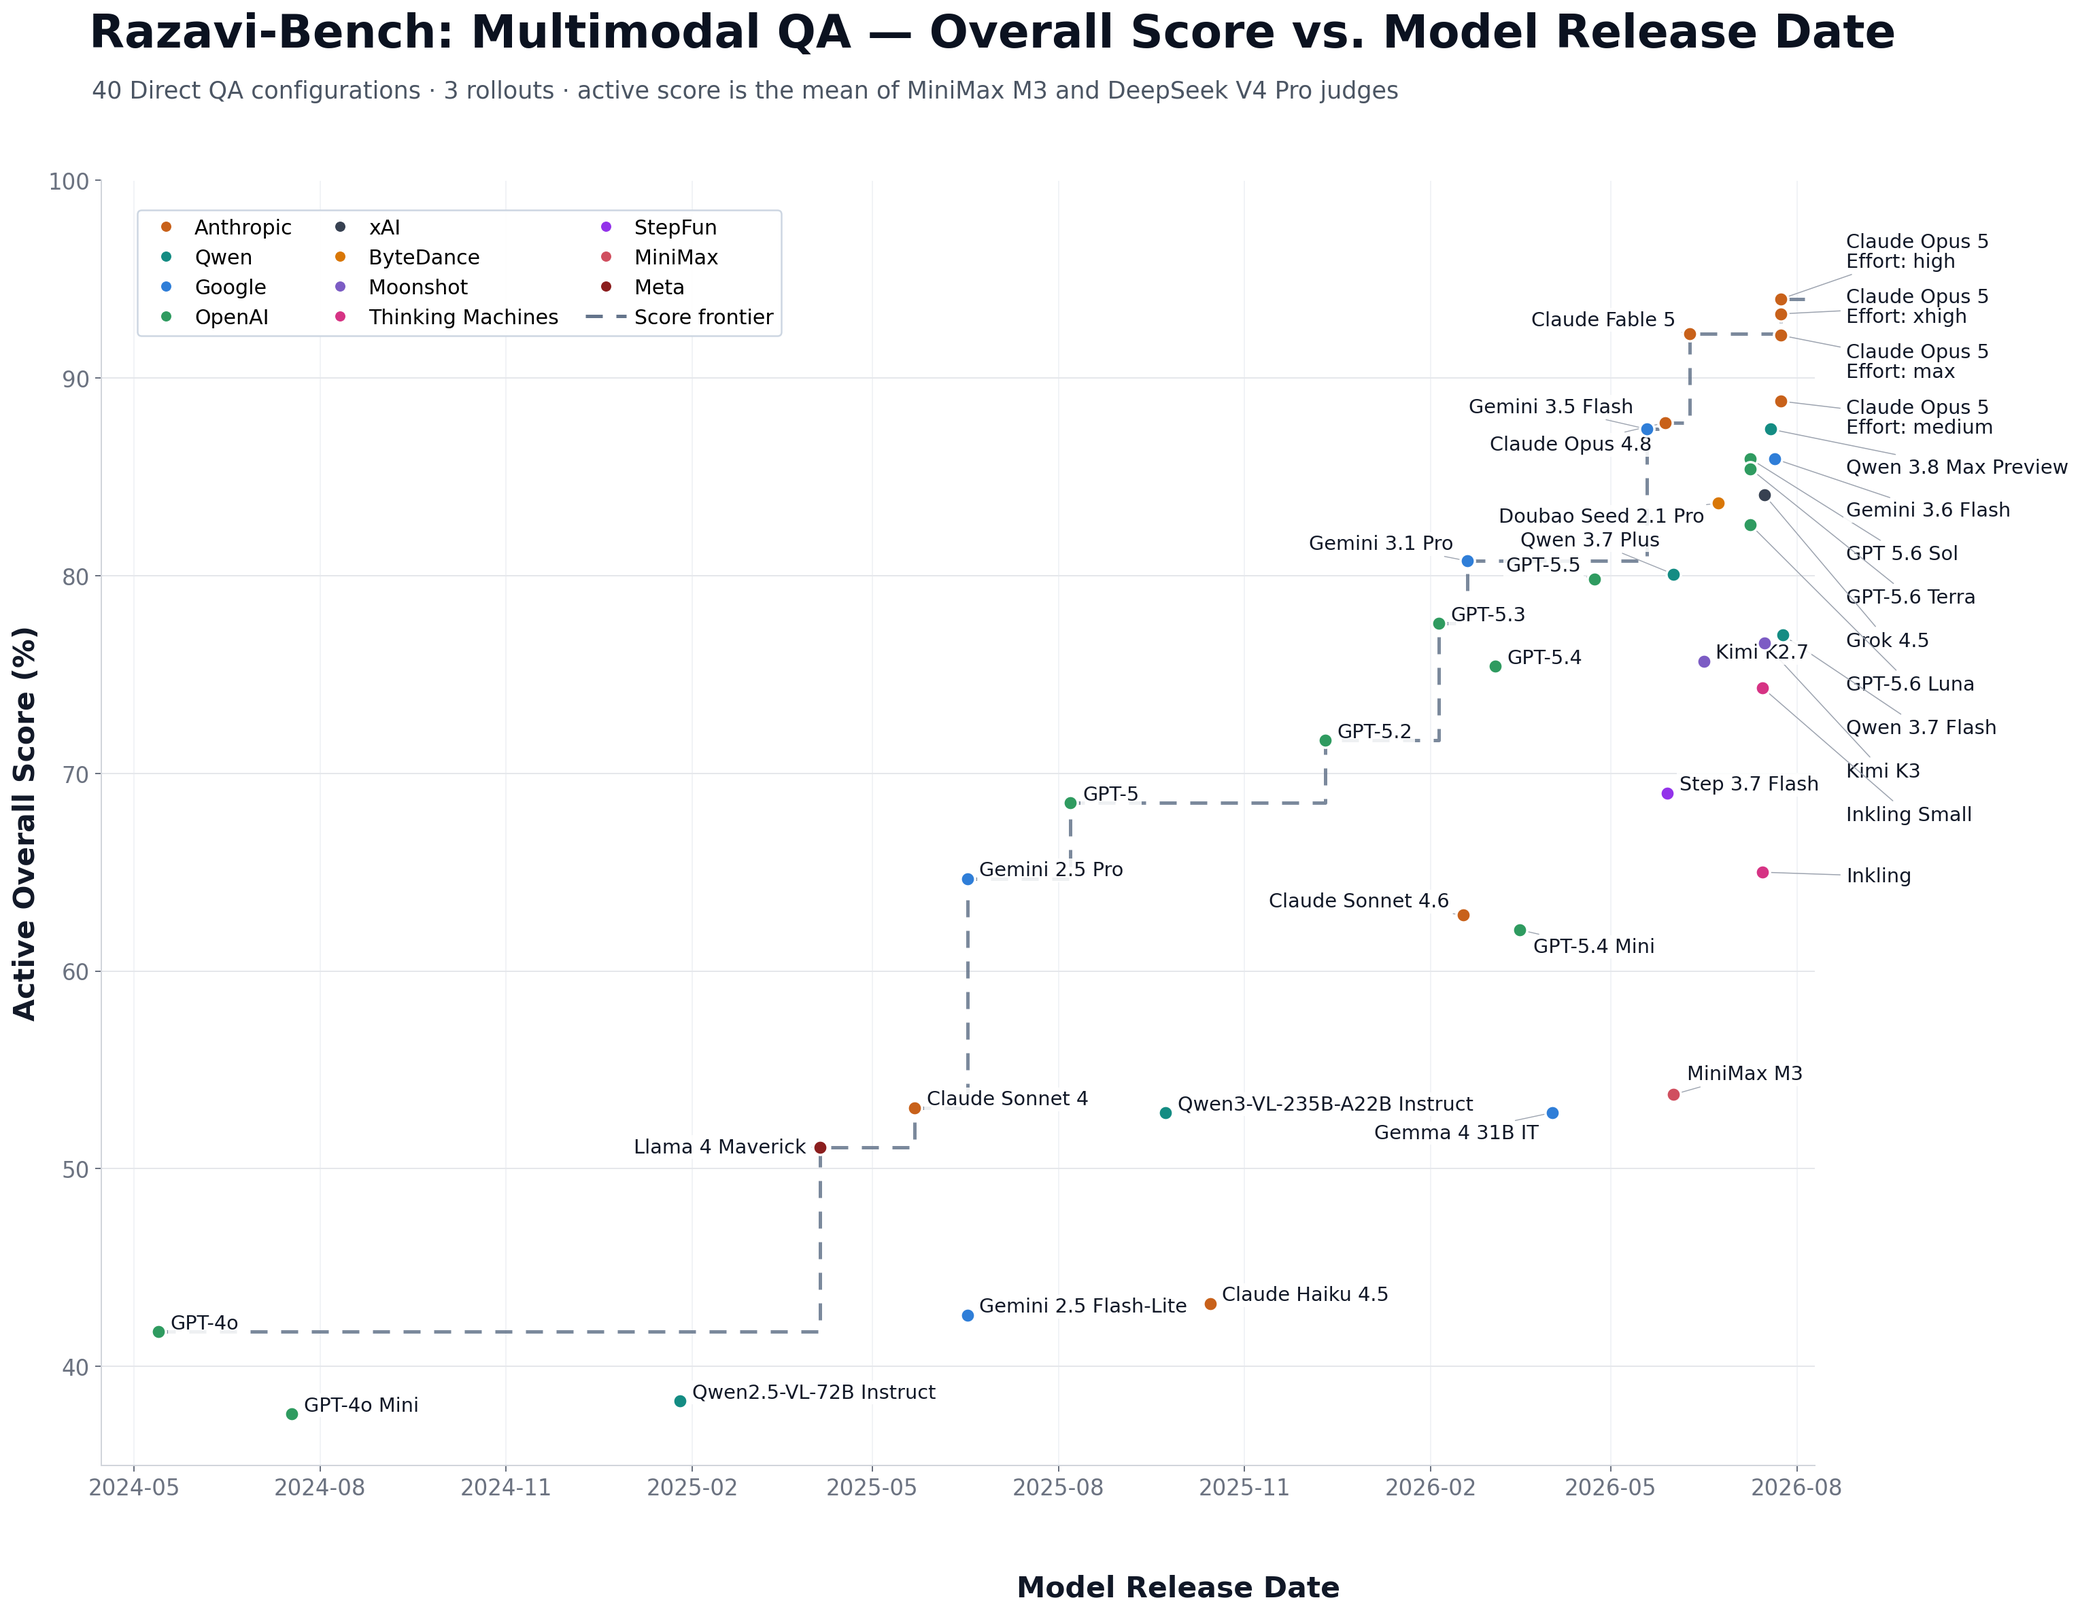
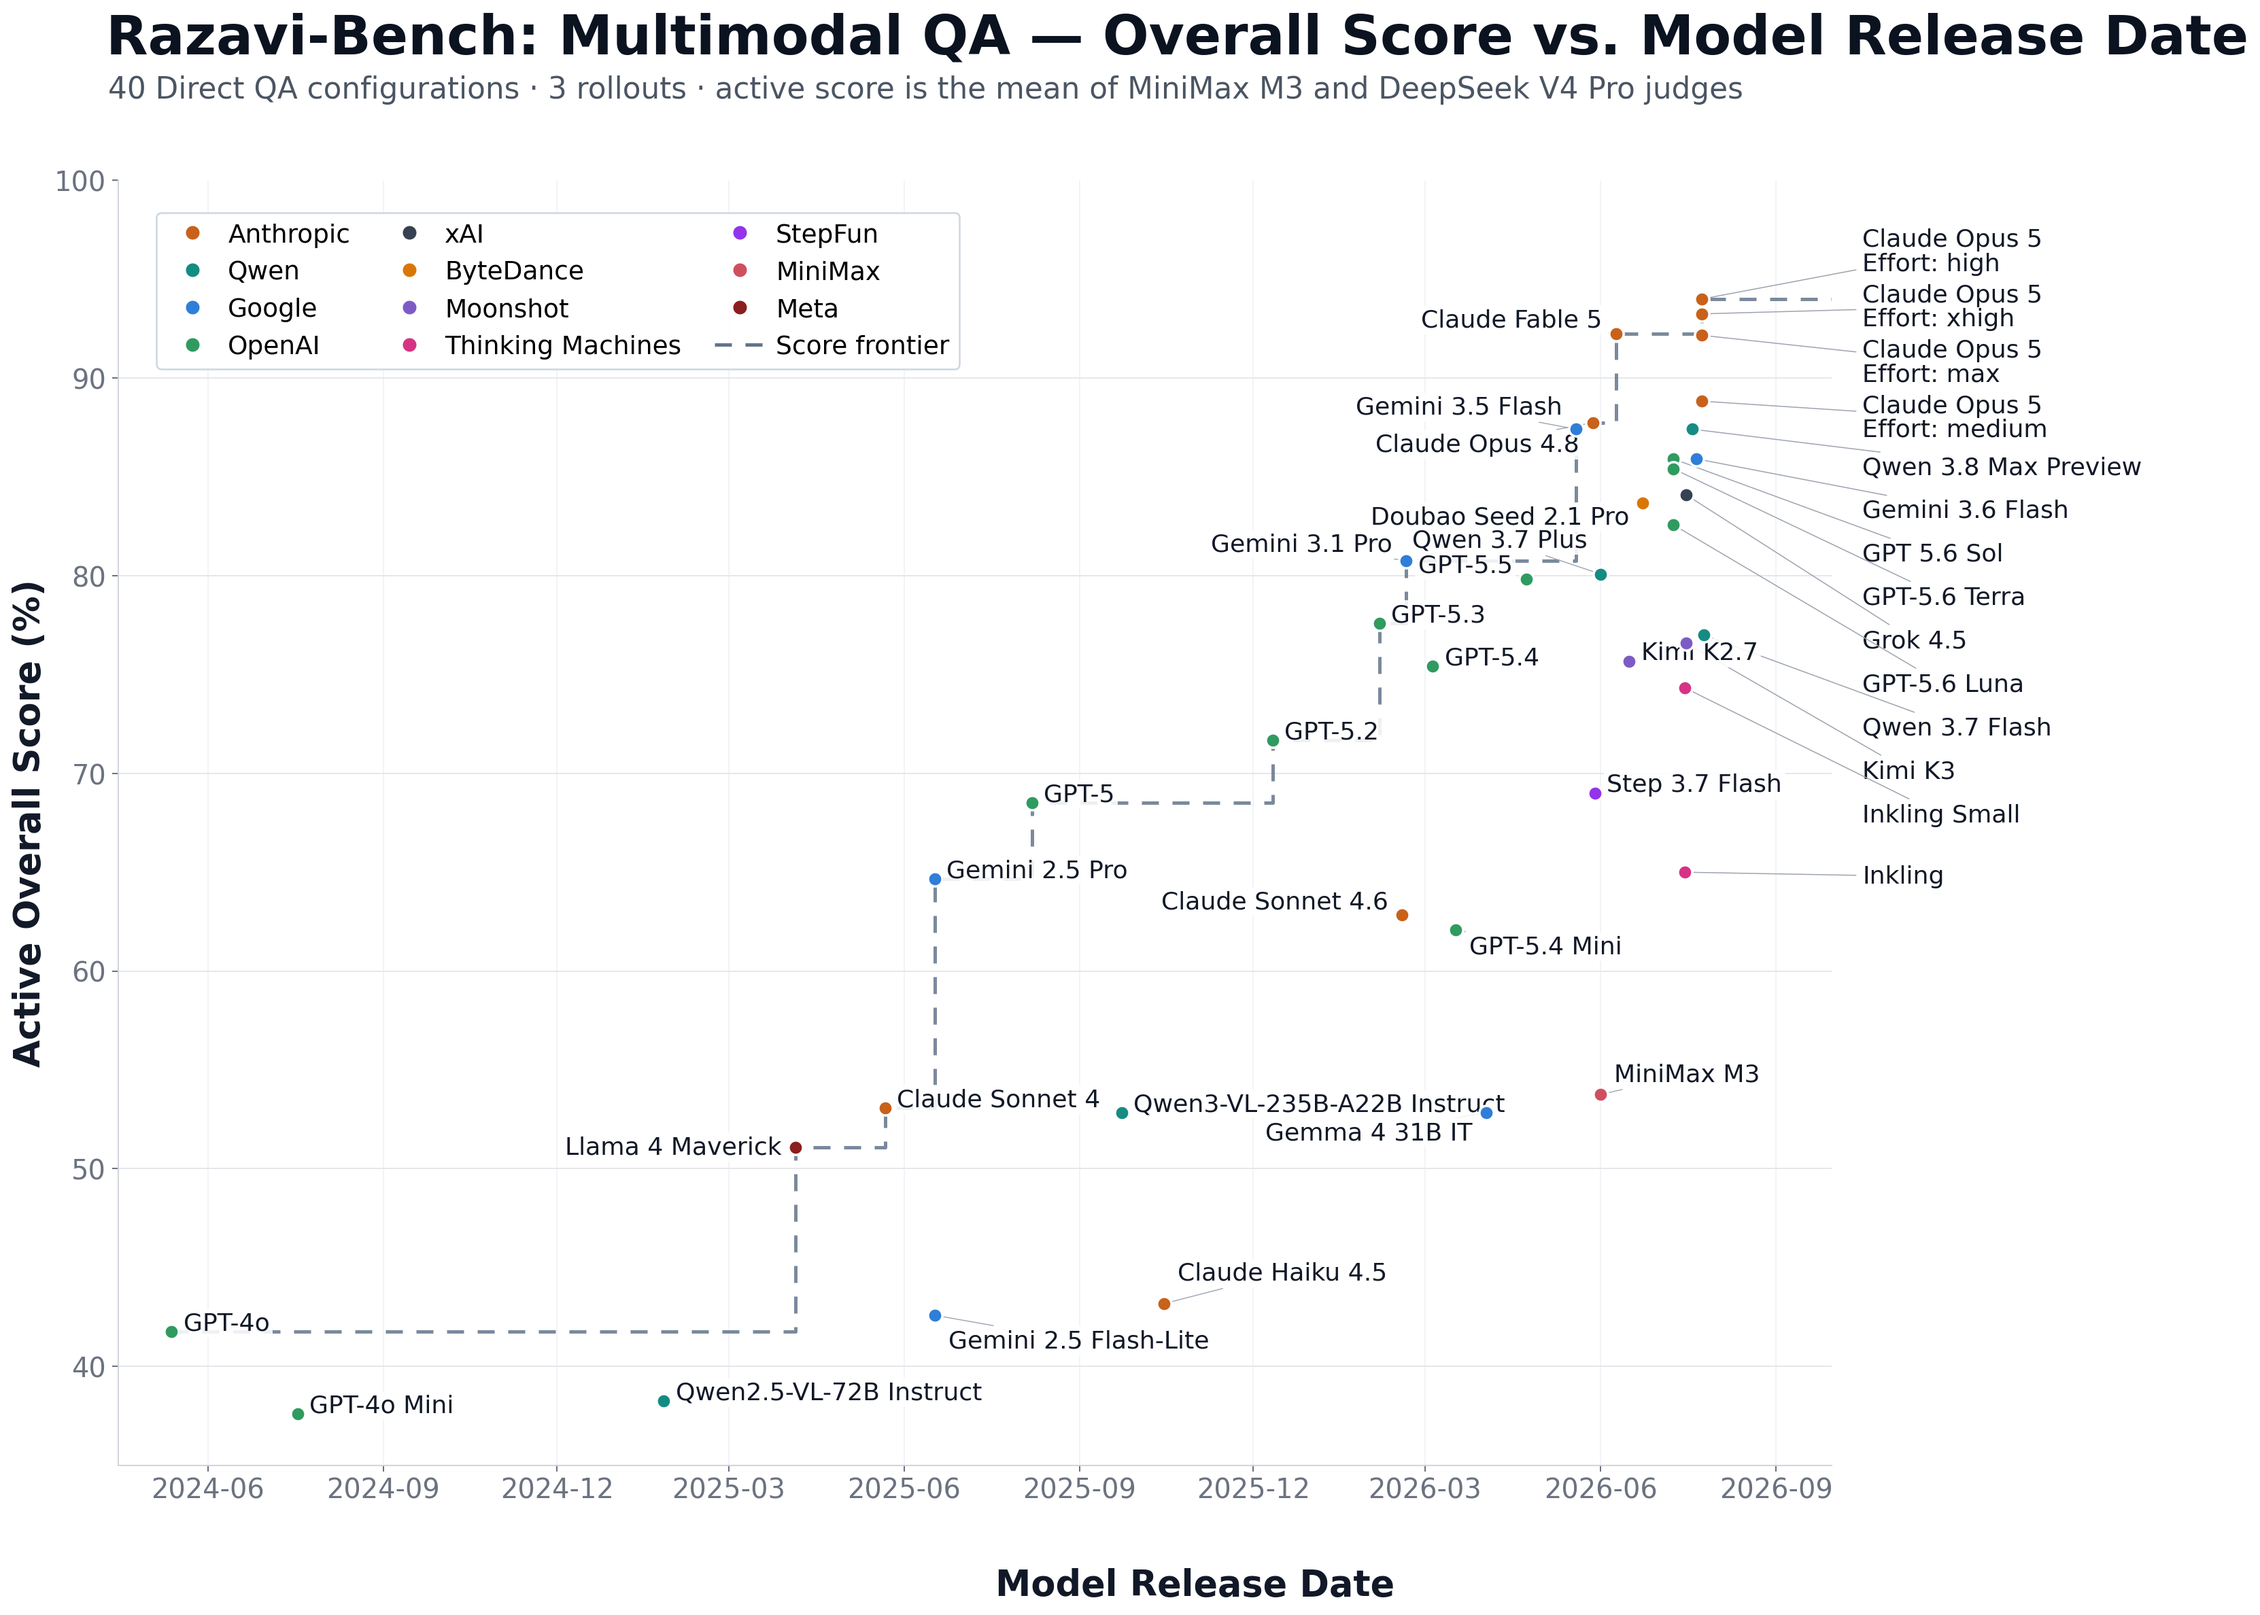
Improve release timeline readability

diff --git a/tools/plot_model_release_timeline.py b/tools/plot_model_release_timeline.py
@@ -39,7 +39,9 @@ LABEL_OFFSETS = {
     "claude_opus_48": (-8, -13),
     "gemini_31": (-8, 10),
     "gemini_35_flash": (-8, 13),
+    "gemini_25_flash_lite": (8, -15),
     "gemma_4_31b_it": (-8, -12),
+    "claude_haiku_45": (8, 18),
     "doubao_seed_21_pro": (-8, -8),
     "gpt_54_mini": (8, -10),
     "gpt_55": (-8, 8),
@@ -126,7 +128,7 @@ def annotate(ax: plt.Axes, row: dict[str, object]) -> None:
             textcoords=ax.get_yaxis_transform(),
             ha="left",
             va="center",
-            fontsize=11.5,
+            fontsize=14.5,
             color="#111827",
             linespacing=1.05,
             arrowprops={"arrowstyle": "-", "color": "#9CA3AF", "lw": 0.6},
@@ -145,7 +147,7 @@ def annotate(ax: plt.Axes, row: dict[str, object]) -> None:
         textcoords="offset points",
         ha=horizontal_alignment,
         va="center",
-        fontsize=11.5,
+        fontsize=14.5,
         color="#111827",
         linespacing=1.05,
         arrowprops={"arrowstyle": "-", "color": "#9CA3AF", "lw": 0.55},
@@ -161,7 +163,7 @@ def style_axis(ax: plt.Axes) -> None:
     ax.set_yticks(range(40, 101, 10))
     ax.grid(axis="y", color="#E5E7EB", linewidth=0.8)
     ax.grid(axis="x", color="#F0F2F5", linewidth=0.7)
-    ax.tick_params(colors="#6B7280", labelsize=13)
+    ax.tick_params(colors="#6B7280", labelsize=16)
     ax.spines["top"].set_visible(False)
     ax.spines["right"].set_visible(False)
     ax.spines["left"].set_color("#D1D5DB")
@@ -180,8 +182,9 @@ def plot(rows: list[dict[str, object]], output: Path) -> None:
         figsize=(20, 15),
         dpi=180,
     )
-    ax.set_xlim(date(2024, 4, 15), date(2026, 8, 10))
-    ax.xaxis.set_major_locator(mdates.MonthLocator(bymonth=[2, 5, 8, 11]))
+    timeline_end = date(2026, 9, 30)
+    ax.set_xlim(date(2024, 4, 15), timeline_end)
+    ax.xaxis.set_major_locator(mdates.MonthLocator(bymonth=[3, 6, 9, 12]))
     style_axis(ax)
 
     best_by_date: dict[date, dict[str, object]] = {}
@@ -196,7 +199,7 @@ def plot(rows: list[dict[str, object]], output: Path) -> None:
         if row["score"] > running_best:
             frontier.append(row)
             running_best = float(row["score"])
-    frontier_dates = [row["release_date"] for row in frontier] + [date(2026, 8, 10)]
+    frontier_dates = [row["release_date"] for row in frontier] + [timeline_end]
     frontier_scores = [row["score"] for row in frontier] + [running_best]
     ax.step(
         frontier_dates,
@@ -222,14 +225,14 @@ def plot(rows: list[dict[str, object]], output: Path) -> None:
         )
         annotate(ax, row)
 
-    ax.set_ylabel("Active Overall Score (%)", fontsize=17, fontweight="bold", color="#111827")
-    figure.supxlabel("Model Release Date", y=0.105, fontsize=17, fontweight="bold", color="#111827")
+    ax.set_ylabel("Active Overall Score (%)", fontsize=21, fontweight="bold", color="#111827")
+    figure.supxlabel("Model Release Date", y=0.105, fontsize=21, fontweight="bold", color="#111827")
     figure.suptitle(
         "Razavi-Bench: Multimodal QA — Overall Score vs. Model Release Date",
         x=0.055,
         y=0.972,
         ha="left",
-        fontsize=27,
+        fontsize=32,
         fontweight="bold",
         color="#0B1220",
     )
@@ -237,7 +240,7 @@ def plot(rows: list[dict[str, object]], output: Path) -> None:
         0.056,
         0.925,
         f"{len(rows)} Direct QA configurations · 3 rollouts · active score is the mean of MiniMax M3 and DeepSeek V4 Pro judges",
-        fontsize=14,
+        fontsize=17.5,
         color="#4B5563",
     )
 
@@ -250,7 +253,7 @@ def plot(rows: list[dict[str, object]], output: Path) -> None:
         seen.add(legend_name)
         providers.append(
             Line2D([0], [0], marker="o", color="none", markerfacecolor=color,
-                   markeredgecolor="white", markersize=7, label=legend_name)
+                   markeredgecolor="white", markersize=9, label=legend_name)
         )
     providers.append(
         Line2D([0], [0], color="#64748B", linewidth=2.0,
@@ -265,7 +268,7 @@ def plot(rows: list[dict[str, object]], output: Path) -> None:
         facecolor="white",
         edgecolor="#CBD5E1",
         framealpha=0.96,
-        fontsize=12,
+        fontsize=15,
         handletextpad=0.4,
         columnspacing=1.3,
     )
